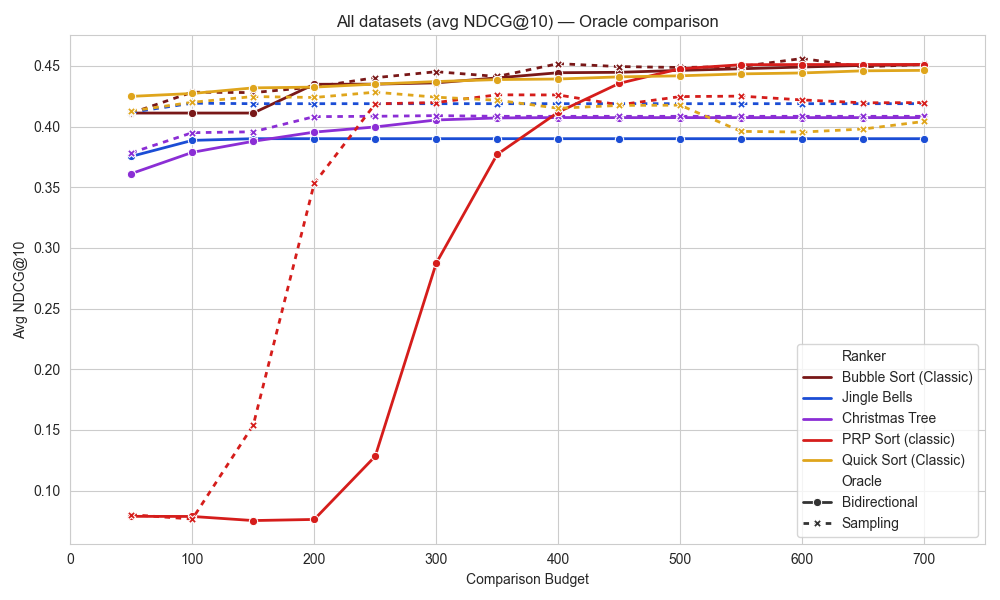
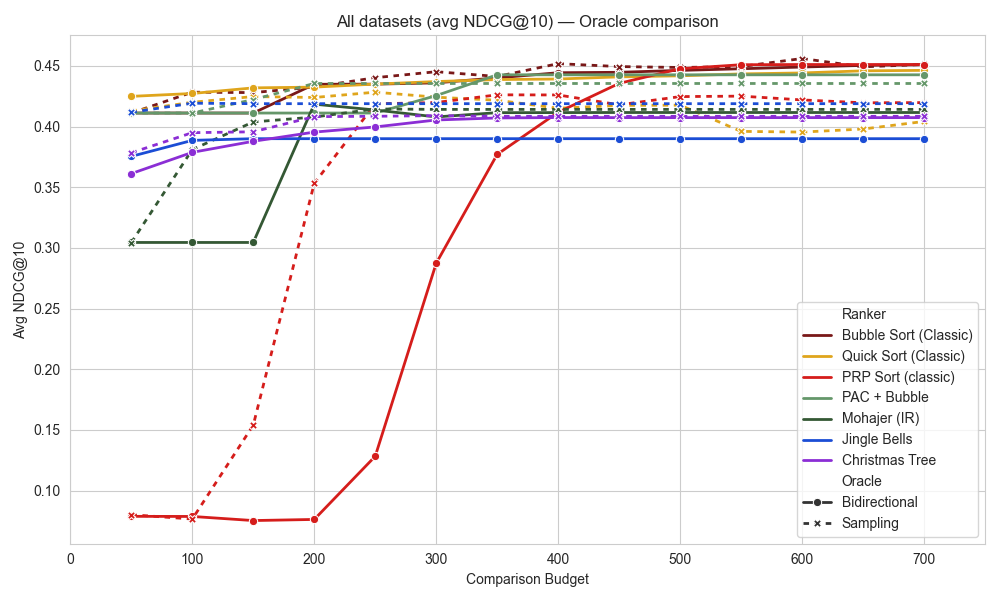
push it

diff --git a/experiments/visualize_results.py b/experiments/visualize_results.py
@@ -17,7 +17,9 @@ def main():
         'Quick Sort (Classic)': '#dfa51c',
         'PRP Sort (classic)': '#d51d1b',
         'Jingle Bells': '#1b4dd5',
-        'Christmas Tree': '#8b2ed5'
+        'Christmas Tree': '#8b2ed5',
+        'bm25': '#444444',
+        'BM25': '#444444',
     }
 
     # Verify file exists
@@ -45,16 +47,20 @@ def main():
         ("Quick Sort (Classic)", "Bidirectional"),
         ("PRP Sort (classic)", "Bidirectional"),
         ("Jingle Bells", "Sampling"),
-        ("Christmas Tree", "Sampling")
+        ("Christmas Tree", "Sampling"),
+        ("bm25", "Bidirectional"),
     ]
     
     # Set 2: Oracle Comparison (Only Baselines)
     oracle_comparison_rankers = [
+        "Mohajer (IR)",
+        "PAC + Bubble",
         "Bubble Sort (Classic)",
         "Quick Sort (Classic)",
         "PRP Sort (classic)",
         "Jingle Bells",
-        "Christmas Tree"
+        "Christmas Tree",
+        "bm25",
     ]
 
     def _mask_for_pairs(dataframe, pairs):

diff --git a/README.md b/README.md
@@ -122,11 +122,11 @@ Per dataset: CSV `summary.csv` with one row per ranker & k
 - `reports/beir-metrics/` contiene ejemplos de salidas; puedes borrarlas o regenerarlas con `make beir-eval`.
 - Graficar NDCG@k desde un `summary.csv`: `python -m ireranker.plots ndcg-bar nfcorpus --k 10`.
 
-
 ## BEIR results
 
 Tables auto-updated after each BEIR evaluation.
 
+<!-- BEGIN_BEIR_RESULTS -->
 ### flan-t5-large
 | Ranker | dbpedia-entity | fiqa | scifact | trec-covid | webis-touche2020 | Average | Avg #Inference | Avg Cache Hits |
 | --- | --- | --- | --- | --- | --- | --- | --- | --- |
@@ -166,14 +166,13 @@ Tables auto-updated after each BEIR evaluation.
 | pac top-k (3-round) [cached-sampling] | 0.2017 | 0.2378 | 0.6228 | 0.7332 | 0.3035 | 0.4198 | 631628 | 30668 |
 | pac top-k (optimized) [cached-sampling] | 0.1199 | 0.2452 | 0.6642 | 0.6718 | 0.3953 | 0.4193 | 85643 | **0** |
 | pac top-k (optimized) [sampling] | 0.1199 | 0.2452 | 0.6642 | 0.6718 | 0.3953 | 0.4193 | 42821 | **0** |
+| jingle bells [sampling] | 0.1540 | 0.2478 | 0.6452 | 0.6688 | 0.3784 | 0.4188 | 21085 | **0** |
 | pac top-k (3-round) [weird $(1.5)$] | 0.2025 | 0.2325 | 0.6453 | 0.7177 | 0.2952 | 0.4186 | 347506 | **0** |
-| mohajer (ir) [weird $(1.5)$] | 0.2419 | 0.2520 | 0.5648 | 0.7693 | 0.2558 | 0.4168 | 69352 | **0** |
 | mohajer + bubble [bidirectional] | 0.2411 | 0.2623 | 0.5487 | 0.7556 | 0.2665 | 0.4149 | 120218 | 22681 |
 | mohajer (ir) [sampling] | 0.2412 | 0.2485 | 0.5754 | 0.7611 | 0.2445 | 0.4141 | 67660 | **0** |
 | mohajer + bubble [cached-sampling] | 0.2442 | 0.2683 | 0.5694 | 0.7437 | 0.2390 | 0.4129 | 122975 | 36135 |
-| mohajer (ir) [cached-sampling] | 0.2396 | 0.2492 | 0.5799 | 0.7611 | 0.2335 | 0.4127 | 108393 | 13245 |
-| mohajer (ir) [bidirectional] | 0.2391 | 0.2587 | 0.5385 | 0.7574 | 0.2641 | 0.4116 | 113824 | 14300 |
 | bm25 [bidirectional] | 0.1037 | 0.2361 | 0.6789 | 0.5947 | 0.4422 | 0.4111 | **0** | **0** |
+| christmas tree [sampling] | 0.1321 | 0.2463 | 0.6579 | 0.6180 | 0.3878 | 0.4084 | 63910 | **0** |
 | spectral mle (refinement) [bidirectional] | 0.2050 | 0.2034 | 0.5495 | 0.6674 | 0.2943 | 0.3839 | 1452416 | **0** |
 
 ### flan-t5-xl
@@ -200,6 +199,7 @@ Tables auto-updated after each BEIR evaluation.
 | pac + bubble [cached-sampling] | n/a | n/a | 0.6613 | 0.7003 | 0.3979 | 0.5865 | 45099 | 1706 |
 | pac top-k (3-round) [cached-sampling] | n/a | n/a | 0.6537 | 0.7356 | 0.3518 | 0.5804 | 288337 | 12658 |
 | pac top-k (2-round) [bidirectional] | n/a | n/a | 0.6647 | 0.7661 | 0.3084 | 0.5797 | 267599 | 161 |
+| jingle bells [sampling] | n/a | n/a | 0.6523 | 0.6886 | 0.3908 | 0.5772 | 8922 | **0** |
 | pac top-k (3-round) [sampling] | n/a | n/a | 0.6414 | 0.7391 | 0.3419 | 0.5742 | 156827 | **0** |
 | prp sort (classic) [cached-sampling] | n/a | n/a | 0.6627 | 0.7822 | 0.2732 | 0.5727 | 207726 | 6170 |
 | bm25 [bidirectional] | n/a | n/a | 0.6789 | 0.5947 | **0.4422** | 0.5719 | **0** | **0** |
@@ -210,24 +210,24 @@ Tables auto-updated after each BEIR evaluation.
 | mohajer + bubble [sampling] | n/a | n/a | 0.6354 | **0.7855** | 0.2794 | 0.5668 | 46831 | **0** |
 | mohajer + bubble [weird $(1.5)$] | n/a | n/a | 0.6411 | 0.7776 | 0.2653 | 0.5613 | 42171 | **0** |
 | mohajer (ir) [sampling] | n/a | n/a | 0.6276 | 0.7761 | 0.2720 | 0.5586 | 30891 | **0** |
-| mohajer (ir) [weird $(1.5)$] | n/a | n/a | 0.6227 | 0.7708 | 0.2735 | 0.5556 | 31599 | **0** |
+| christmas tree [sampling] | n/a | n/a | 0.6520 | 0.6259 | 0.3953 | 0.5577 | 27525 | **0** |
 | quick sort (classic) [cached-sampling] | n/a | n/a | 0.6353 | 0.7645 | 0.2657 | 0.5552 | 145921 | **0** |
 | quick sort (classic) [sampling] | n/a | n/a | 0.6353 | 0.7645 | 0.2657 | 0.5552 | 72960 | **0** |
 | spectral mle (refinement) [weird $(1.5)$] | n/a | n/a | 0.6593 | 0.7295 | 0.2759 | 0.5549 | 333622 | **0** |
 | pac top-k (2-round) [weird $(1.5)$] | n/a | n/a | 0.6274 | 0.7636 | 0.2735 | 0.5548 | 140596 | **0** |
-| mohajer (ir) [cached-sampling] | n/a | n/a | 0.6181 | 0.7659 | 0.2756 | 0.5532 | 51028 | 5282 |
 | mohajer + bubble [cached-sampling] | n/a | n/a | 0.6107 | 0.7663 | 0.2772 | 0.5514 | 57912 | 16439 |
 | quick sort (classic) [bidirectional] | n/a | n/a | 0.6139 | 0.7717 | 0.2581 | 0.5479 | 249733 | **0** |
 | quick sort (classic) [weird $(1.5)$] | n/a | n/a | 0.6113 | 0.7572 | 0.2699 | 0.5461 | 76506 | **0** |
 | mohajer + bubble [bidirectional] | n/a | n/a | 0.6188 | 0.7598 | 0.2571 | 0.5452 | 57175 | 9527 |
 | spectral mle (refinement) [cached-sampling] | n/a | n/a | 0.6345 | 0.7386 | 0.2570 | 0.5434 | 667245 | **0** |
 | spectral mle (refinement) [sampling] | n/a | n/a | 0.6345 | 0.7386 | 0.2570 | 0.5434 | 333622 | **0** |
-| mohajer (ir) [bidirectional] | n/a | n/a | 0.6122 | 0.7598 | 0.2545 | 0.5422 | 53775 | 5537 |
 | spectral mle (refinement) [bidirectional] | n/a | n/a | 0.5300 | 0.6819 | 0.2693 | 0.4937 | 667245 | **0** |
 
 Notes:
 - fiqa: skipped (missing rerank matrix)
 - dbpedia-entity: skipped (missing rerank matrix)
+<!-- END_BEIR_RESULTS -->
+
 
 ## Limit Comparisons Experiment
 
